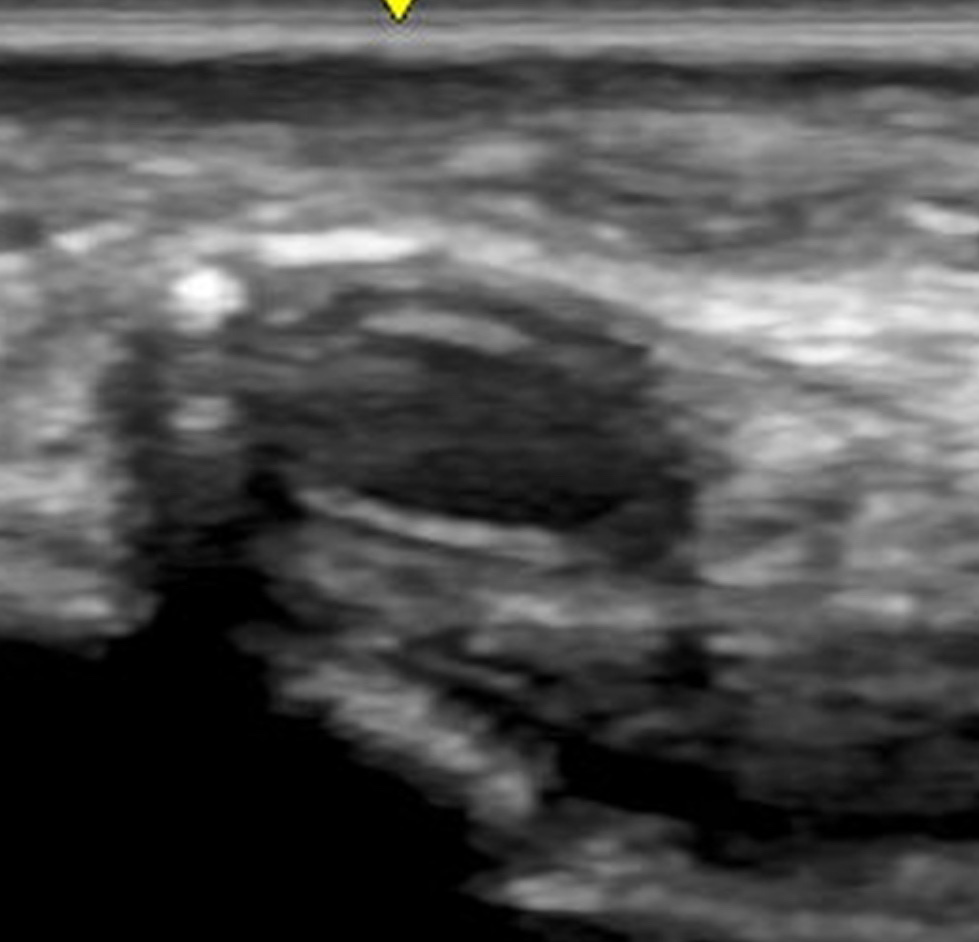
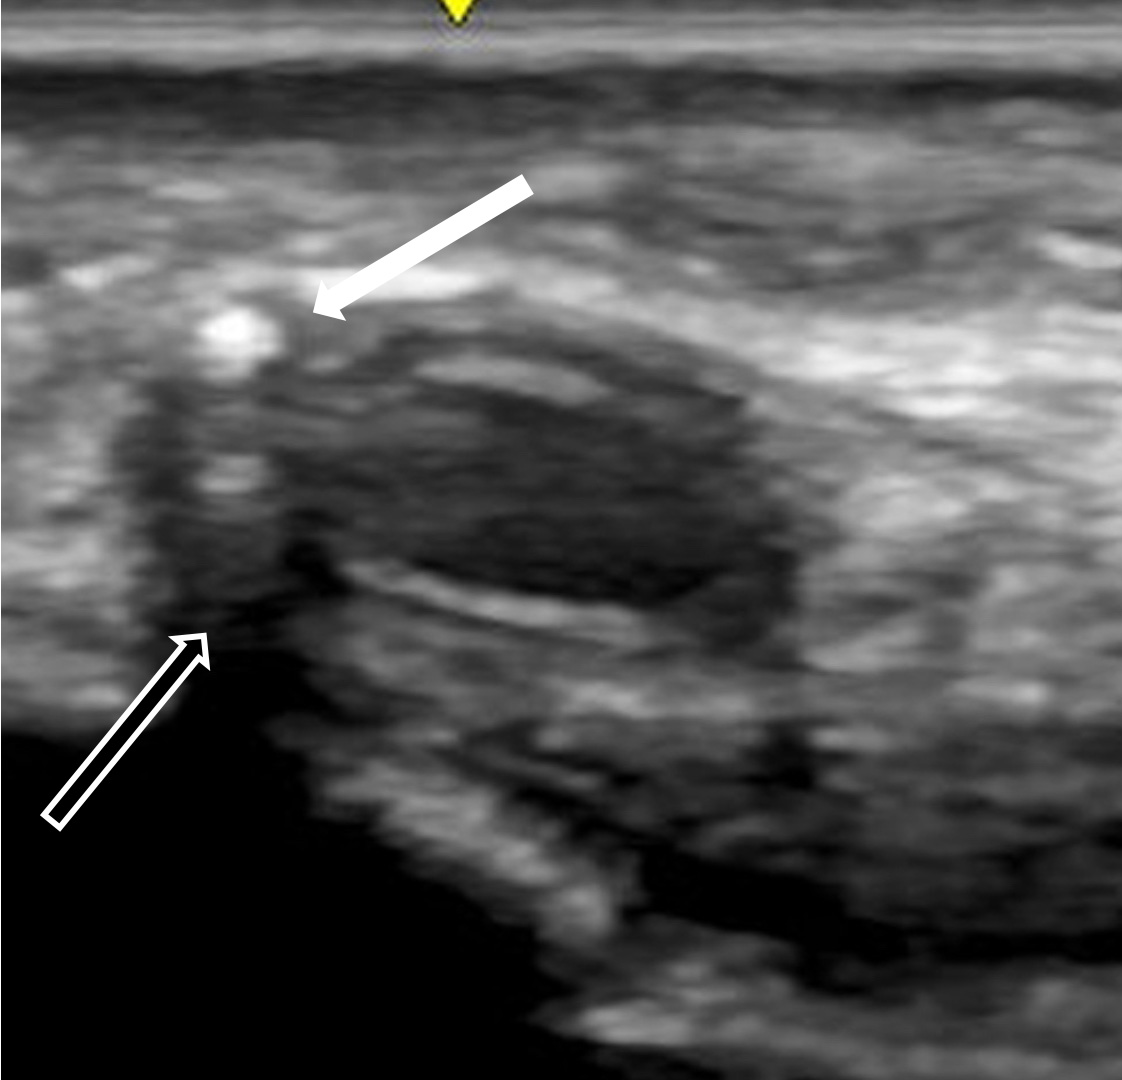
png -> jpg

Changed region(s): [[0.2758, 0.1539, 0.4903, 0.3079], [0.0306, 0.5849, 0.1839, 0.7696], [0.3984, 0.0, 0.429, 0.0308]]

diff --git a/SAITO/DRA_ECHO/echo_guide_puncture.md b/SAITO/DRA_ECHO/echo_guide_puncture.md
@@ -16,5 +16,5 @@
 
 遠位橈骨動脈は非常に柔軟な動脈なので、容易に針先によって押しつぶされますが、針先が動脈の中心を捉えていなければ、動脈の片側(この例では右側)が、中心部分よりも圧迫されます。さらによく見ると針先の高輝度反射部分が動脈内腔より外れて見えます(この例では、針先反射が非常に鮮明に見える例です: 矢印白、矢印黒は針の後側のシャドーです)。
 
-![穿刺針が橈骨動脈の左側にずれている](https://github.com/SSAITO-Atlas/Cardiology-Atlas/blob/master/SAITO/DRA_ECHO/imgs/needle_left.png)
+![穿刺針が橈骨動脈の左側にずれている](https://github.com/SSAITO-Atlas/Cardiology-Atlas/blob/master/SAITO/DRA_ECHO/imgs/needle_left.jpg)
 
